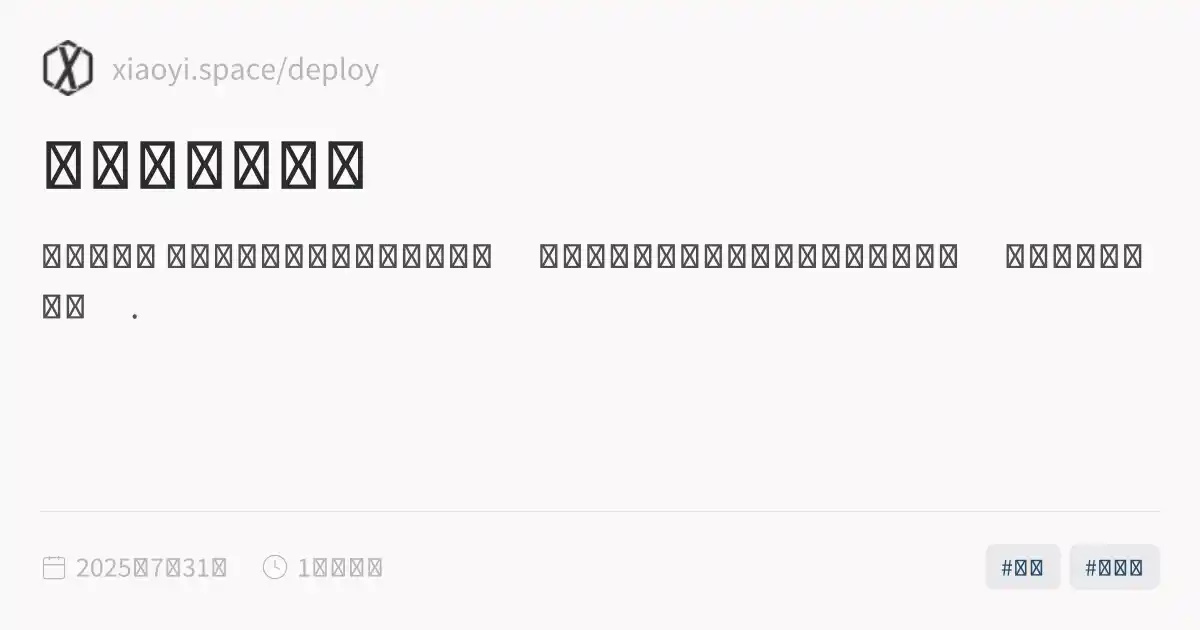
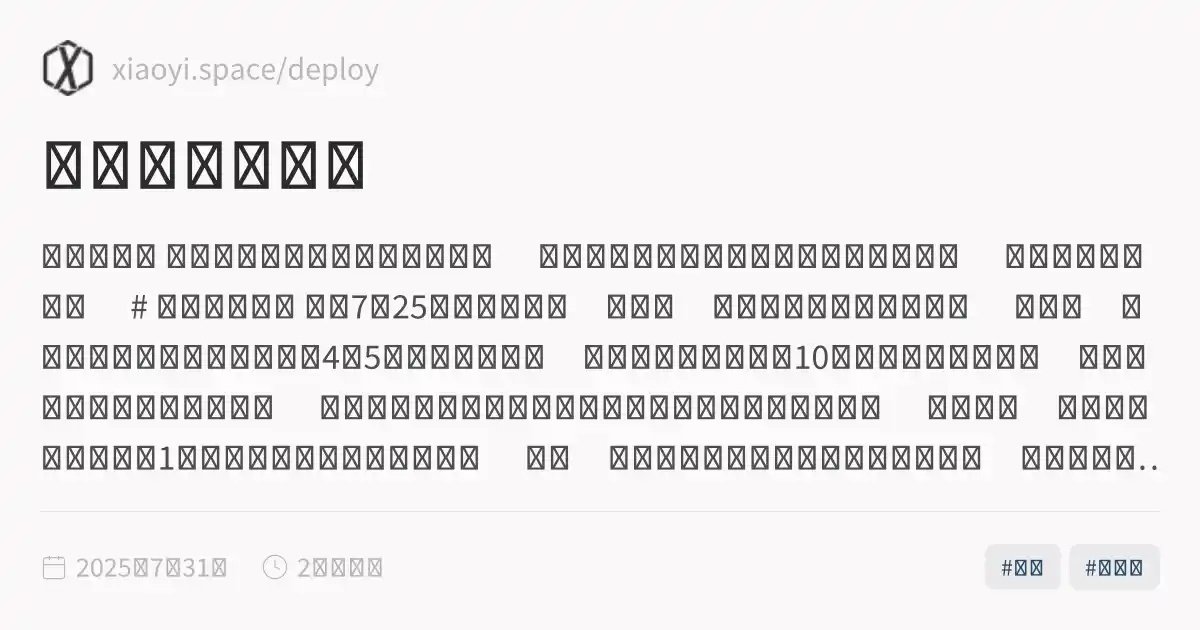
feature:update note

diff --git a/deploy/会吹口哨的宝宝.html b/deploy/会吹口哨的宝宝.html
@@ -1,5 +1,5 @@
 <!DOCTYPE html>
-<html lang="zh"><head><title>会吹口哨的宝宝</title><meta charset="utf-8"/><link rel="preconnect" href="https://fonts.googleapis.com"/><link rel="preconnect" href="https://fonts.gstatic.com"/><link rel="stylesheet" href="https://fonts.googleapis.com/css2?family=Schibsted Grotesk:wght@400;700&amp;family=Source Sans Pro:ital,wght@0,400;0,600;1,400;1,600&amp;family=IBM Plex Mono:wght@400;600&amp;display=swap"/><link rel="preconnect" href="https://cdnjs.cloudflare.com" crossorigin="anonymous"/><meta name="viewport" content="width=device-width, initial-scale=1.0"/><meta name="og:site_name" content="xiaoyi.space"/><meta property="og:title" content="会吹口哨的宝宝"/><meta property="og:type" content="website"/><meta name="twitter:card" content="summary_large_image"/><meta name="twitter:title" content="会吹口哨的宝宝"/><meta name="twitter:description" content="神奇的地方 我经常吹口哨给我自己的宝宝听。 但是我没想到小孩子的模仿能力如此之强。 她竟然自己学会了。 ."/><meta property="og:description" content="神奇的地方 我经常吹口哨给我自己的宝宝听。 但是我没想到小孩子的模仿能力如此之强。 她竟然自己学会了。 ."/><meta property="og:image:alt" content="神奇的地方 我经常吹口哨给我自己的宝宝听。 但是我没想到小孩子的模仿能力如此之强。 她竟然自己学会了。 ."/><meta property="twitter:domain" content="xiaoyi.space/deploy"/><meta property="og:url" content="https://xiaoyi.space/deploy/会吹口哨的宝宝"/><meta property="twitter:url" content="https://xiaoyi.space/deploy/会吹口哨的宝宝"/><link rel="icon" href="./static/icon.png"/><meta name="description" content="神奇的地方 我经常吹口哨给我自己的宝宝听。 但是我没想到小孩子的模仿能力如此之强。 她竟然自己学会了。 ."/><meta name="generator" content="Quartz"/><link href="./index.css" rel="stylesheet" type="text/css" spa-preserve/><style>.expand-button {
+<html lang="zh"><head><title>会吹口哨的宝宝</title><meta charset="utf-8"/><link rel="preconnect" href="https://fonts.googleapis.com"/><link rel="preconnect" href="https://fonts.gstatic.com"/><link rel="stylesheet" href="https://fonts.googleapis.com/css2?family=Schibsted Grotesk:wght@400;700&amp;family=Source Sans Pro:ital,wght@0,400;0,600;1,400;1,600&amp;family=IBM Plex Mono:wght@400;600&amp;display=swap"/><link rel="preconnect" href="https://cdnjs.cloudflare.com" crossorigin="anonymous"/><meta name="viewport" content="width=device-width, initial-scale=1.0"/><meta name="og:site_name" content="xiaoyi.space"/><meta property="og:title" content="会吹口哨的宝宝"/><meta property="og:type" content="website"/><meta name="twitter:card" content="summary_large_image"/><meta name="twitter:title" content="会吹口哨的宝宝"/><meta name="twitter:description" content="神奇的地方 我经常吹口哨给我自己的宝宝听。 但是我没想到小孩子的模仿能力如此之强。 她竟然自己学会了。 # 我还想说的话 宝宝7月25日满的一周岁。周岁前，我们带她去做了一次儿保。 医生说，这个月龄的宝宝应该要能说出4到5个有意义的单词，还要能伸出手指指认10来样不同种类的东西，否则就是认知发育还有所欠缺。 我不大明白这个年头为什么有那么多喜欢贩卖焦虑的人。 问了一圈，身边就没见任何一个1岁的宝宝能做到他说的这一点。 然而，现在自己的宝宝能有意识的叫出爸爸，能模仿小鸭子小猫咪的声音，甚至还能自己吹口哨，知道把东西拿回来放到爸爸妈妈手上。这些动作不就已经证明她会思考，会探索，会模仿了么。这样的宝..."/><meta property="og:description" content="神奇的地方 我经常吹口哨给我自己的宝宝听。 但是我没想到小孩子的模仿能力如此之强。 她竟然自己学会了。 # 我还想说的话 宝宝7月25日满的一周岁。周岁前，我们带她去做了一次儿保。 医生说，这个月龄的宝宝应该要能说出4到5个有意义的单词，还要能伸出手指指认10来样不同种类的东西，否则就是认知发育还有所欠缺。 我不大明白这个年头为什么有那么多喜欢贩卖焦虑的人。 问了一圈，身边就没见任何一个1岁的宝宝能做到他说的这一点。 然而，现在自己的宝宝能有意识的叫出爸爸，能模仿小鸭子小猫咪的声音，甚至还能自己吹口哨，知道把东西拿回来放到爸爸妈妈手上。这些动作不就已经证明她会思考，会探索，会模仿了么。这样的宝..."/><meta property="og:image:alt" content="神奇的地方 我经常吹口哨给我自己的宝宝听。 但是我没想到小孩子的模仿能力如此之强。 她竟然自己学会了。 # 我还想说的话 宝宝7月25日满的一周岁。周岁前，我们带她去做了一次儿保。 医生说，这个月龄的宝宝应该要能说出4到5个有意义的单词，还要能伸出手指指认10来样不同种类的东西，否则就是认知发育还有所欠缺。 我不大明白这个年头为什么有那么多喜欢贩卖焦虑的人。 问了一圈，身边就没见任何一个1岁的宝宝能做到他说的这一点。 然而，现在自己的宝宝能有意识的叫出爸爸，能模仿小鸭子小猫咪的声音，甚至还能自己吹口哨，知道把东西拿回来放到爸爸妈妈手上。这些动作不就已经证明她会思考，会探索，会模仿了么。这样的宝..."/><meta property="twitter:domain" content="xiaoyi.space/deploy"/><meta property="og:url" content="https://xiaoyi.space/deploy/会吹口哨的宝宝"/><meta property="twitter:url" content="https://xiaoyi.space/deploy/会吹口哨的宝宝"/><link rel="icon" href="./static/icon.png"/><meta name="description" content="神奇的地方 我经常吹口哨给我自己的宝宝听。 但是我没想到小孩子的模仿能力如此之强。 她竟然自己学会了。 # 我还想说的话 宝宝7月25日满的一周岁。周岁前，我们带她去做了一次儿保。 医生说，这个月龄的宝宝应该要能说出4到5个有意义的单词，还要能伸出手指指认10来样不同种类的东西，否则就是认知发育还有所欠缺。 我不大明白这个年头为什么有那么多喜欢贩卖焦虑的人。 问了一圈，身边就没见任何一个1岁的宝宝能做到他说的这一点。 然而，现在自己的宝宝能有意识的叫出爸爸，能模仿小鸭子小猫咪的声音，甚至还能自己吹口哨，知道把东西拿回来放到爸爸妈妈手上。这些动作不就已经证明她会思考，会探索，会模仿了么。这样的宝..."/><meta name="generator" content="Quartz"/><link href="./index.css" rel="stylesheet" type="text/css" spa-preserve/><style>.expand-button {
   position: absolute;
   display: flex;
   float: right;
@@ -116,13 +116,20 @@ pre:hover > .expand-button {
   padding: 0 12px;
   font-size: 14px;
 }
[2 lines of base64/hex data omitted]
 <p>我经常吹口哨给我自己的宝宝听。
 但是我没想到小孩子的模仿能力如此之强。
 她竟然自己学会了。</p>
 <video class="responsive-video" controls playsinline>
 <source src="https://xiaoyili-1251682002.cos.ap-guangzhou.myqcloud.com/img/mmexport1753886412124.mp4" type="video/mp4"/>
-</video></article><hr/><div class="page-footer"></div></div><div class="right sidebar"><div class="graph"><h3>关系图谱</h3><div class="graph-outer"><div class="graph-container" data-cfg="{&quot;drag&quot;:true,&quot;zoom&quot;:true,&quot;depth&quot;:1,&quot;scale&quot;:1.1,&quot;repelForce&quot;:0.5,&quot;centerForce&quot;:0.3,&quot;linkDistance&quot;:30,&quot;fontSize&quot;:0.6,&quot;opacityScale&quot;:1,&quot;showTags&quot;:true,&quot;removeTags&quot;:[],&quot;focusOnHover&quot;:false,&quot;enableRadial&quot;:false}"></div><button class="global-graph-icon" aria-label="Global Graph"><svg version="1.1" xmlns="http://www.w3.org/2000/svg" xmlns:xlink="http://www.w3.org/1999/xlink" x="0px" y="0px" viewBox="0 0 55 55" fill="currentColor" xml:space="preserve"><path d="M49,0c-3.309,0-6,2.691-6,6c0,1.035,0.263,2.009,0.726,2.86l-9.829,9.829C32.542,17.634,30.846,17,29,17
+</video>
+# 我还想说的话
+宝宝7月25日满的一周岁。周岁前，我们带她去做了一次儿保。
+医生说，这个月龄的宝宝应该要能说出4到5个有意义的单词，还要能伸出手指指认10来样不同种类的东西，否则就是认知发育还有所欠缺。
+我不大明白这个年头为什么有那么多喜欢贩卖焦虑的人。
+问了一圈，身边就没见任何一个1岁的宝宝能做到他说的这一点。 
+然而，现在自己的宝宝能有意识的叫出爸爸，能模仿小鸭子小猫咪的声音，甚至还能自己吹口哨，知道把东西拿回来放到爸爸妈妈手上。这些动作不就已经证明她会思考，会探索，会模仿了么。这样的宝宝怎么会是认知发育有问题呢。
+人本来就是活的，干嘛要用书本上死的标准来做要求。</article><hr/><div class="page-footer"></div></div><div class="right sidebar"><div class="graph"><h3>关系图谱</h3><div class="graph-outer"><div class="graph-container" data-cfg="{&quot;drag&quot;:true,&quot;zoom&quot;:true,&quot;depth&quot;:1,&quot;scale&quot;:1.1,&quot;repelForce&quot;:0.5,&quot;centerForce&quot;:0.3,&quot;linkDistance&quot;:30,&quot;fontSize&quot;:0.6,&quot;opacityScale&quot;:1,&quot;showTags&quot;:true,&quot;removeTags&quot;:[],&quot;focusOnHover&quot;:false,&quot;enableRadial&quot;:false}"></div><button class="global-graph-icon" aria-label="Global Graph"><svg version="1.1" xmlns="http://www.w3.org/2000/svg" xmlns:xlink="http://www.w3.org/1999/xlink" x="0px" y="0px" viewBox="0 0 55 55" fill="currentColor" xml:space="preserve"><path d="M49,0c-3.309,0-6,2.691-6,6c0,1.035,0.263,2.009,0.726,2.86l-9.829,9.829C32.542,17.634,30.846,17,29,17
                 s-3.542,0.634-4.898,1.688l-7.669-7.669C16.785,10.424,17,9.74,17,9c0-2.206-1.794-4-4-4S9,6.794,9,9s1.794,4,4,4
                 c0.74,0,1.424-0.215,2.019-0.567l7.669,7.669C21.634,21.458,21,23.154,21,25s0.634,3.542,1.688,4.897L10.024,42.562
                 C8.958,41.595,7.549,41,6,41c-3.309,0-6,2.691-6,6s2.691,6,6,6s6-2.691,6-6c0-1.035-0.263-2.009-0.726-2.86l12.829-12.829

diff --git a/deploy/最近更新.html b/deploy/最近更新.html
@@ -116,7 +116,7 @@ pre:hover > .expand-button {
   padding: 0 12px;
   font-size: 14px;
 }
[2 lines of base64/hex data omitted]
 <li><strong>[2025-07-31 00:01]</strong> <a href="./会吹口哨的宝宝" class="internal alias" data-slug="会吹口哨的宝宝">会吹口哨的宝宝</a></li>
 <li><strong>[2025-07-08 00:55]</strong> <a href="./读《活过》有感" class="internal alias" data-slug="读《活过》有感">读《活过》有感</a></li>
 <li><strong>[2025-07-02 00:58]</strong> <a href="./一件神奇的事情" class="internal alias" data-slug="一件神奇的事情">一件神奇的事情</a></li>
